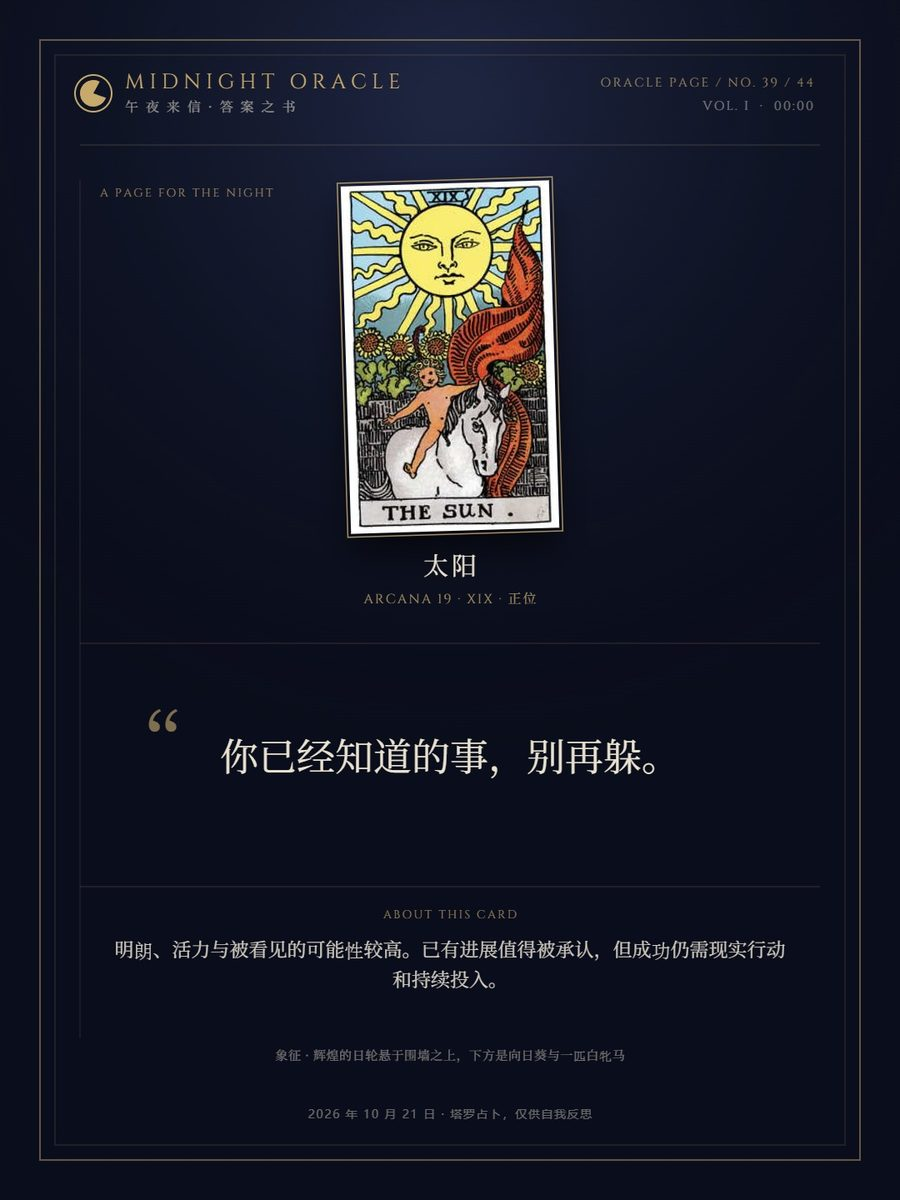
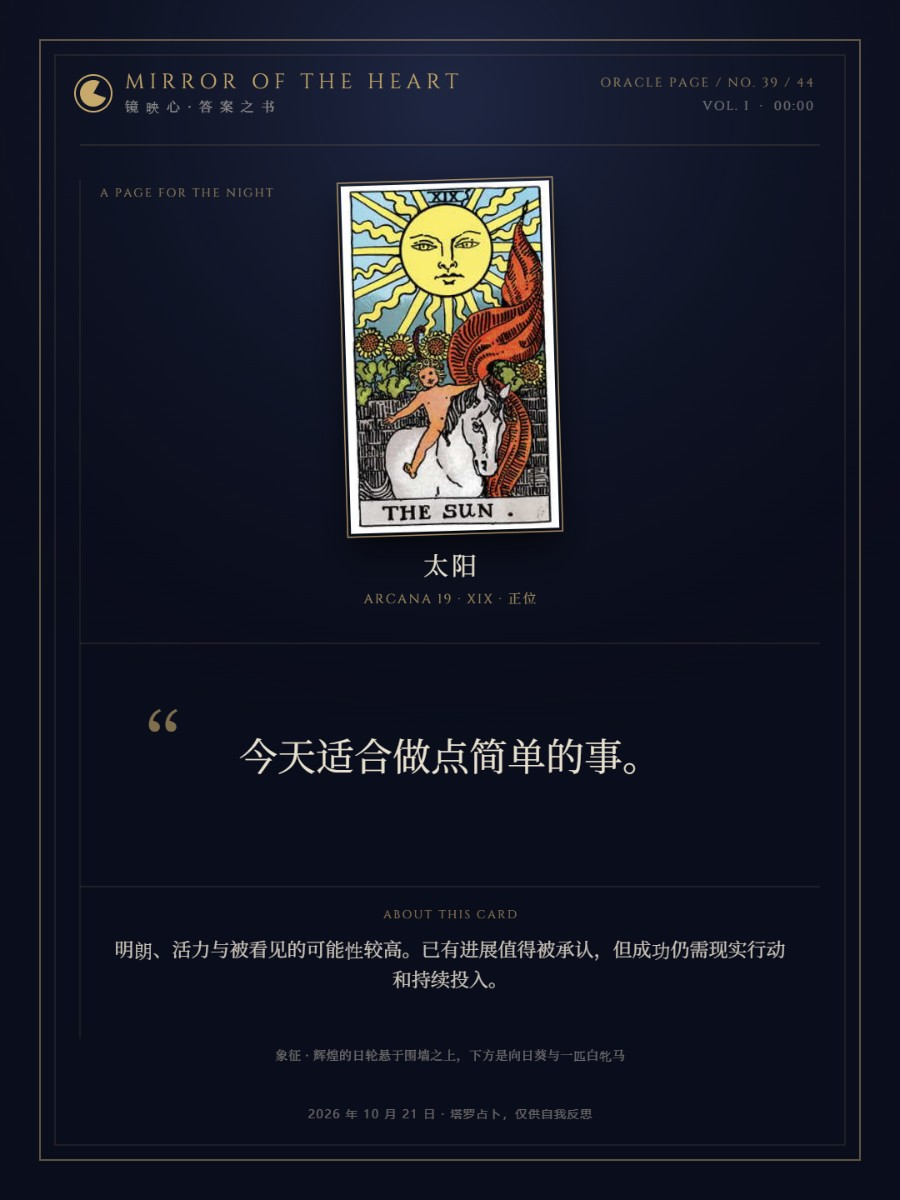
brand: 书页页眉改用中文短标 + showcase 截图重生成（换新品牌）
- 书页页眉：'MIRROR OF THE HEART · 答案之书' 过长会在窄屏换行，
  改为 '镜映心 · 答案之书' 并加 white-space: nowrap
- docs/showcase/ 5 张截图按新品牌重新生成（尺寸与原来一致）：
  首页 / 静心 / 洗牌抽牌 / 今晚这一页 / 分享卡

Changed region(s): [[0.2489, 0.6167, 0.7156, 0.6475], [0.1244, 0.0617, 0.4978, 0.0925]]

diff --git a/app/index.html b/app/index.html
@@ -142,7 +142,7 @@
         <div class="book-page" id="book-page">
           <div class="book-page-head">
             <span class="book-page-no" id="book-page-no">NO. 01 / 44</span>
-            <span class="book-page-mark">MIRROR OF THE HEART · 答案之书</span>
+            <span class="book-page-mark">镜映心 · 答案之书</span>
           </div>
 
           <div class="book-card" id="book-card">

diff --git a/app/assets/style.css b/app/assets/style.css
@@ -2558,6 +2558,8 @@ html.motion-reduced .book.is-opening .book-page { animation: none; }
 .book-page-mark {
   opacity: 0.72;
   text-align: right;
+  white-space: nowrap;   /* 品牌名变长后不让页眉换行 */
+  letter-spacing: 0.12em;
 }
 
 .book-card {
